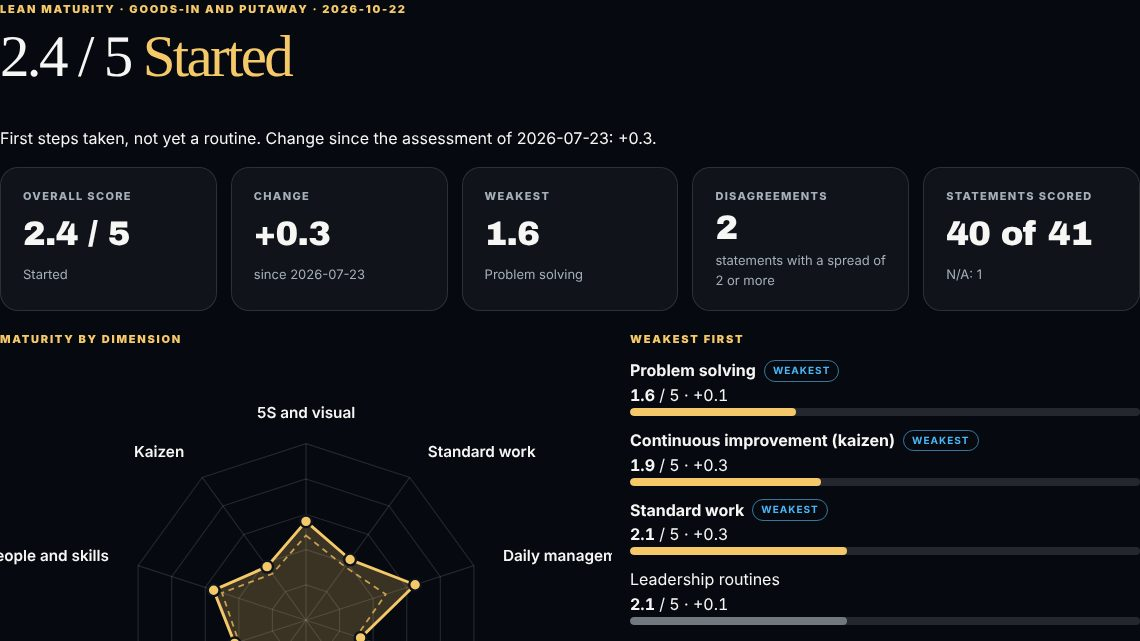
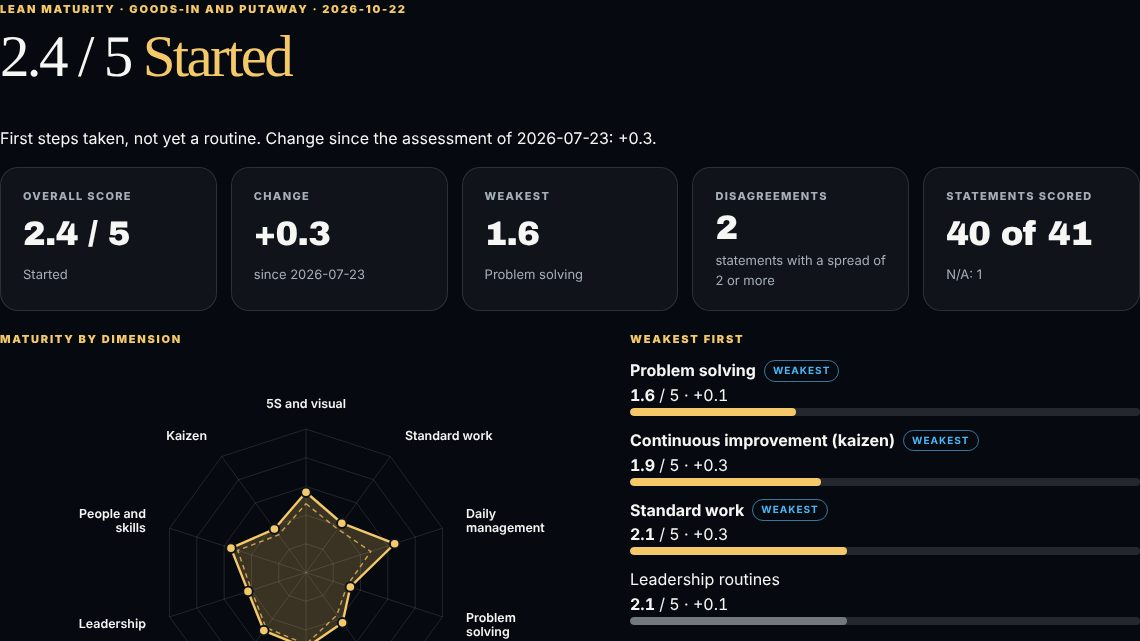
Radar labels keep inside the picture; the Albanian name of the electricity meter
The radar is wider and breaks a long name at the side into two lines, so
the German and Albanian dimension names of the Lean Assessment are no
longer cut. The example's main electricity meter is called
"Elektriciteti, matësi kryesor" in Albanian.

Claude-Session: https://claude.ai/code/session_01SeJocgbU8Y8gFUtnxKswmV

diff --git a/src/js/chart-kit.js b/src/js/chart-kit.js
@@ -76,7 +76,8 @@ window.ChartKit = (() => {
     return [cx + Math.cos(angle) * r * share, cy + Math.sin(angle) * r * share];
   });
   const radar = (axes, options = {}) => {
-    const W = 520, H = 420, cx = W / 2, cy = H / 2 + 6, r = 150, levels = options.levels || 4;
+    // Wide enough that a long name at the side (German, Albanian) is not cut by the edge of the picture.
+    const W = 640, H = 420, cx = W / 2, cy = H / 2 + 6, r = 150, levels = options.levels || 4;
     const svg = frame(W, H, options.title);
     const n = axes.length || 1;
     const format = options.format || ((v) => num(v, 1));
@@ -90,7 +91,14 @@ window.ChartKit = (() => {
       svg.append(svgEl("line", { x1: cx, y1: cy, x2: x, y2: y, stroke: C.grid, "stroke-width": 1 }));
       const lx = cx + Math.cos(angle) * (r + 26), ly = cy + Math.sin(angle) * (r + 26);
       const anchor = Math.abs(Math.cos(angle)) < 0.2 ? "middle" : Math.cos(angle) > 0 ? "start" : "end";
-      const label = svgEl("text", { x: lx, y: ly + 4, "text-anchor": anchor, "font-size": 13, "font-weight": 600, fill: C.text }, shorten(axis.label, 22));
+      const text = shorten(axis.label, 22);
+      // A long name at the side breaks at the space nearest its middle, so it keeps to its side of the picture.
+      const breakAt = anchor !== "middle" && text.length > 14 ? [...text].reduce((best, ch, at) => (ch === " " && Math.abs(at - text.length / 2) < Math.abs(best - text.length / 2) ? at : best), -1) : -1;
+      const label = svgEl("text", { x: lx, y: breakAt > 0 ? ly - 3 : ly + 4, "text-anchor": anchor, "font-size": 13, "font-weight": 600, fill: C.text }, breakAt > 0 ? "" : text);
+      if (breakAt > 0) {
+        label.append(svgEl("tspan", { x: lx, dy: 0 }, text.slice(0, breakAt)));
+        label.append(svgEl("tspan", { x: lx, dy: 15 }, text.slice(breakAt + 1)));
+      }
       svg.append(tip(label, `${axis.label}: ${format(axis.value)} / ${format(axis.max)}`));
     });
     (options.compare || []).forEach((set, i) => {
